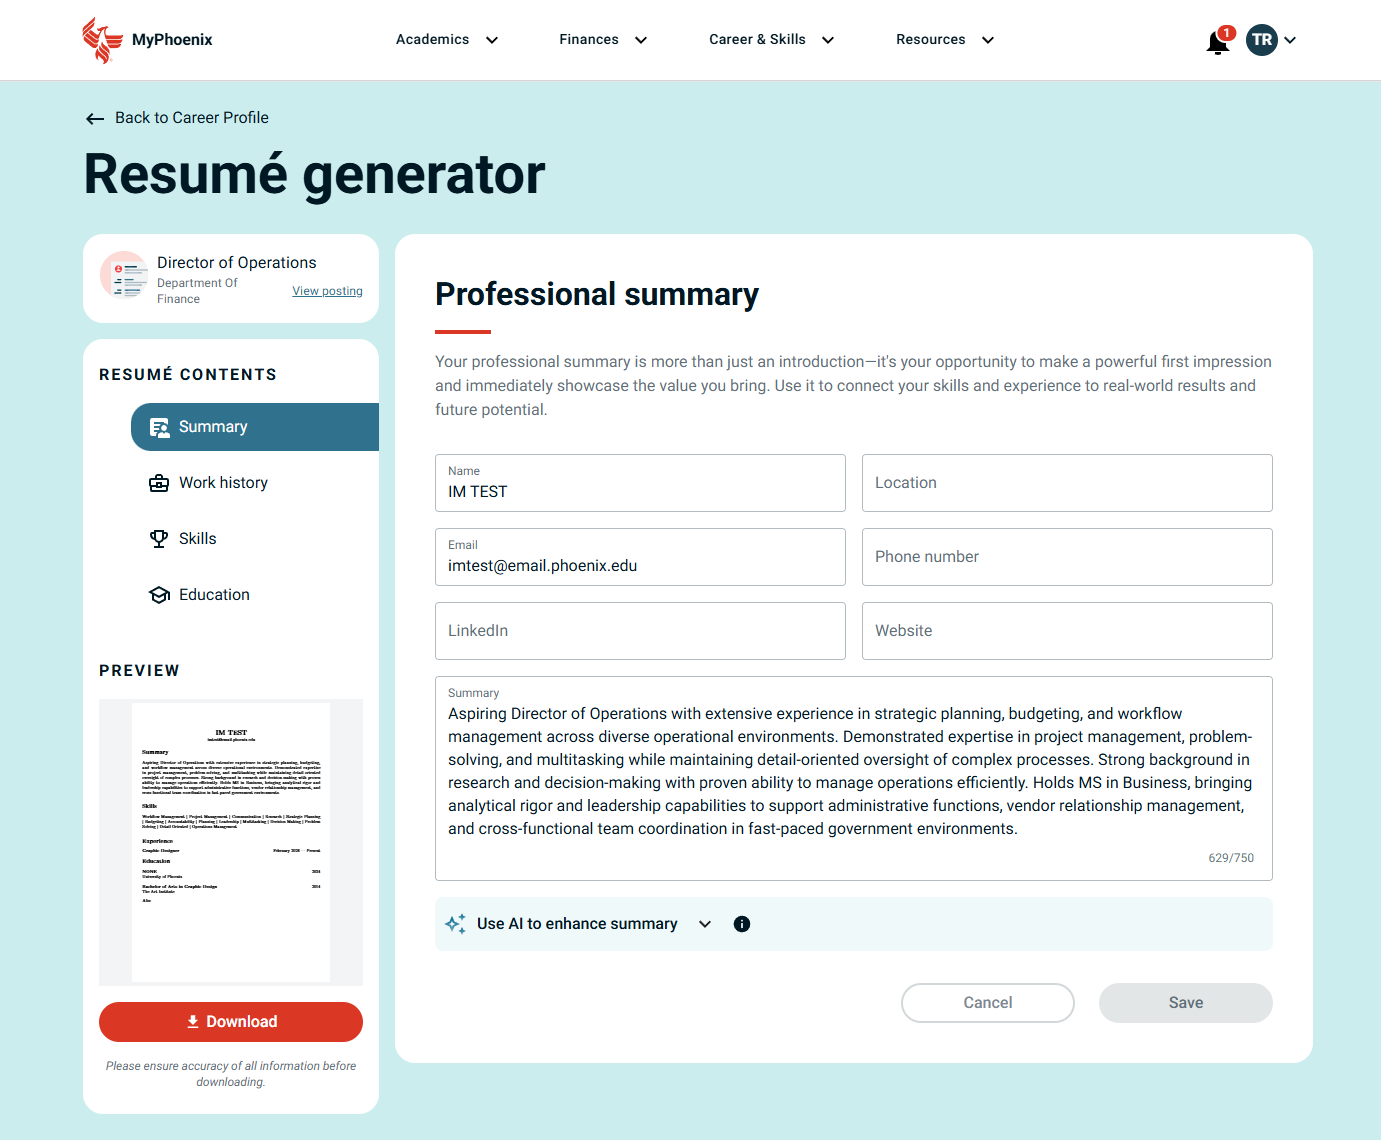
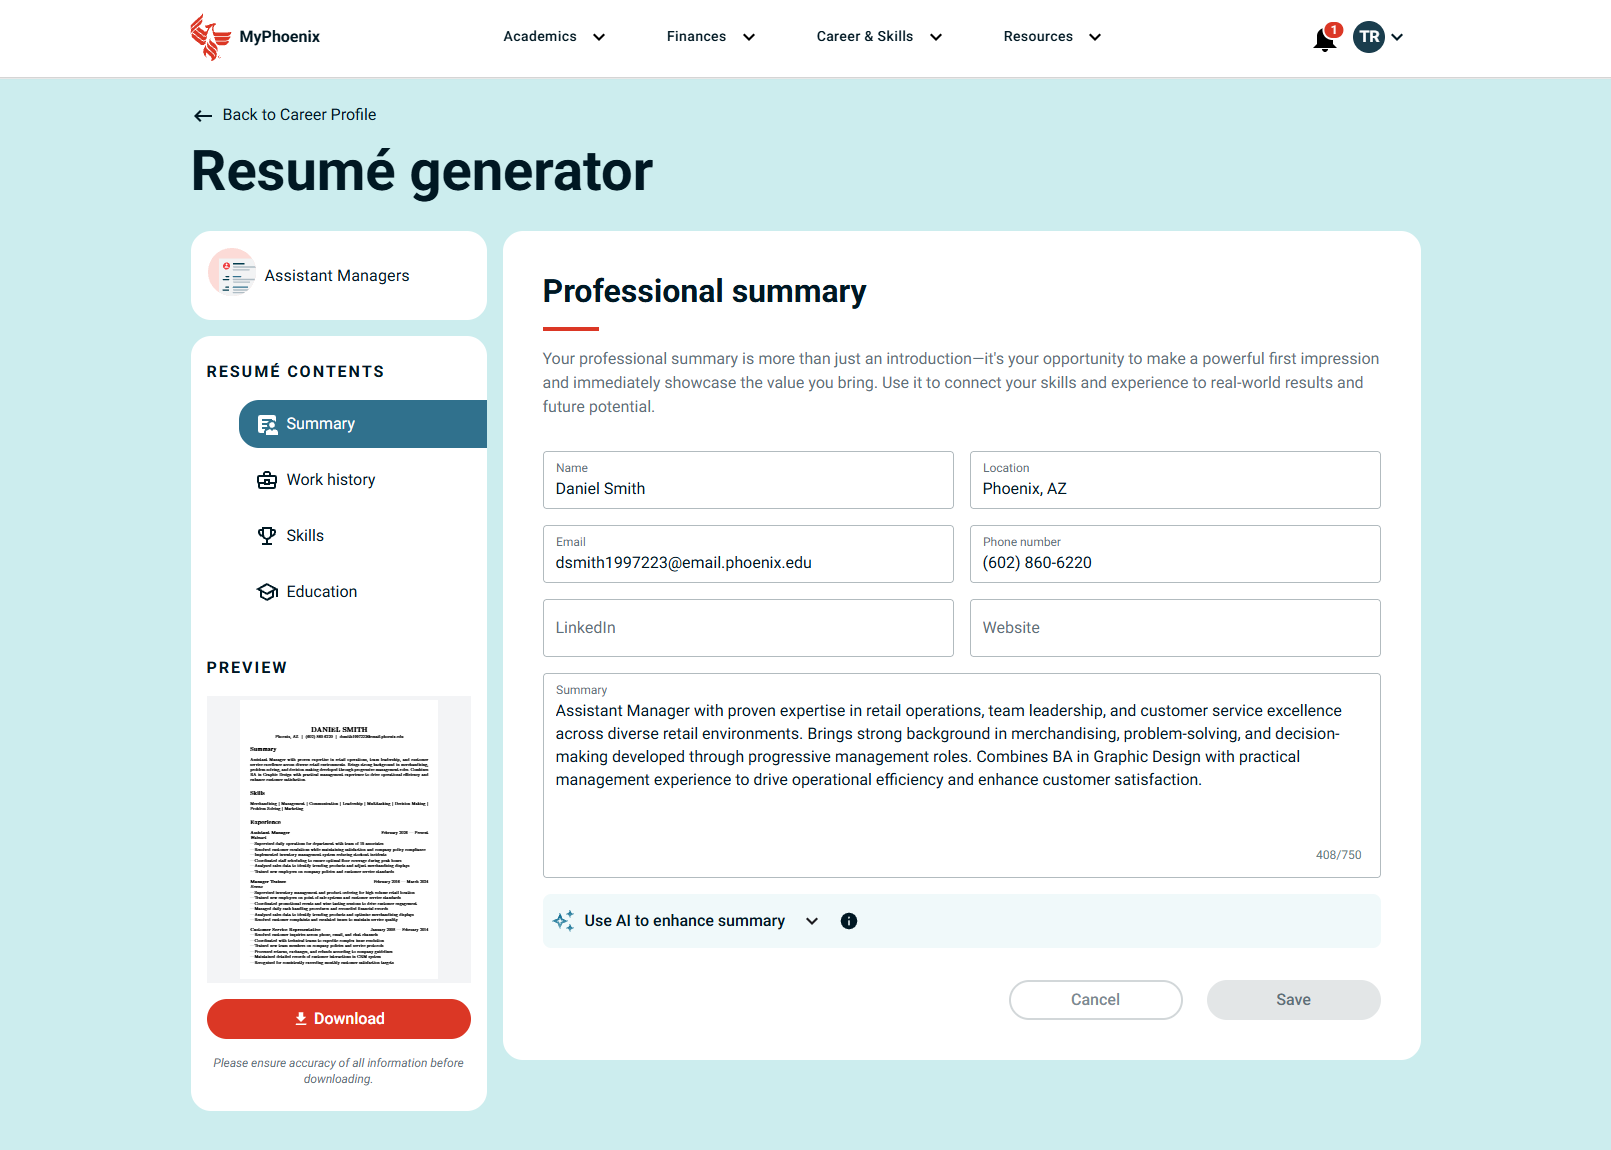
Call the AI Resumé page's middle section Design, and match its editor
The sections under it are the first release's core interaction design,
not changes made after launch, so Iterate misnamed them. Job Explorer and
Career Profile keep Iterate, where the sections are iterations.

The full editor is now the Assistant Manager screenshot, the same
summary the unfold below it opens.

Changed region(s): [[0.0, 0.0, 1.0, 0.9825]]

diff --git a/js/content.js b/js/content.js
@@ -739,9 +739,9 @@ window.SITE = {
 
         {
           type: "chapter",
-          group: "iterate",
-          nav: "Iterate",
-          label: "Iterate",
+          group: "design",
+          nav: "Design",
+          label: "Design",
           heading: "I made AI suggestions easy to choose, regenerate, or skip.",
           flow: [
             "During intake, I designed a step that offered **six suggested responsibilities at a time**, using a student’s job title and employer as context for more relevant language. The smaller set kept the decision manageable, especially on mobile. Students selected only statements that reflected their actual work.\n\n**Regenerating ideas didn’t erase the good ones.** Selected cards stayed at the top while the remaining slots filled with new suggestions. Students could also skip the step entirely and write their own descriptions later in the editor. The goal was to help with a blank canvas, not to decide what was true about someone else’s experience.",
@@ -757,15 +757,15 @@ window.SITE = {
 
         {
           type: "chapter",
-          group: "iterate",
+          group: "design",
           heading: "I gave students a preview before any AI rewrite replaced their words.",
           flow: [
             "The editor opened on a **professional summary**. AI provided a first draft based on the student’s information, but the text was directly editable. Students could revise it themselves without using AI again.",
             {
               width: "wide",
-              image: "assets/stories/ai-resume/editor-full.png", w: 1381, h: 1140,
+              image: "assets/stories/ai-resume/editor-full.png", w: 1611, h: 1150,
               alt:
-                "The resumé editor for a Director of Operations posting: a resumé contents list for summary, work history, skills and education, a professional summary form with an editable AI-drafted summary and a collapsed Use AI to enhance summary bar, and a live resumé preview with a Download button.",
+                "The resumé editor for Assistant Managers: a resumé contents list for summary, work history, skills and education, a professional summary form with an editable AI-drafted summary and a collapsed Use AI to enhance summary bar, and a live resumé preview with a Download button.",
               caption: "The editor: one section at a time, a live preview beside it, and Download when the student is ready."
             },
             "For students who wanted help, I designed **“Use AI to enhance”** as an optional, section-level action. The proposed rewrite appeared separately so they could compare it with what they had, regenerate another suggestion, or explicitly **apply changes**. Their original text wasn’t overwritten simply because they asked for help.",
